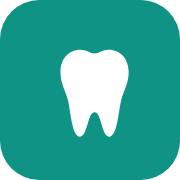
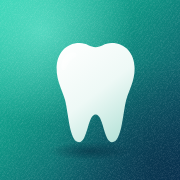
Nouvelle icône texturée en dégradé et écran de lancement
Claude-Session: https://claude.ai/code/session_016JwaKwfunbos5KD4xakaYX

diff --git a/index.html b/index.html
@@ -193,6 +193,14 @@ html{touch-action:manipulation;-webkit-text-size-adjust:100%}
 @keyframes sortie{to{opacity:0;transform:translateX(-24px)}}
 .opt{transition:border-color .15s, background .15s, transform .12s}
 .opt:active{transform:scale(.985)}
+#splash{position:fixed;inset:0;z-index:100;display:flex;flex-direction:column;align-items:center;justify-content:center;gap:18px;
+  background:radial-gradient(120% 80% at 20% 10%,#2BD0B0 0%,#0E9384 45%,#0A3556 100%);transition:opacity .45s ease, visibility .45s}
+#splash::after{content:"";position:absolute;inset:0;background:repeating-linear-gradient(125deg,rgba(255,255,255,.05) 0 1px,transparent 1px 9px);pointer-events:none}
+#splash img{width:112px;height:112px;border-radius:26px;box-shadow:0 18px 40px rgba(4,36,58,.45);animation:splashLogo .7s cubic-bezier(.2,1.3,.4,1) both}
+#splash span{font-family:var(--display);font-weight:800;font-size:2rem;letter-spacing:.02em;color:#fff;animation:splashTxt .6s .25s ease-out both}
+#splash.fini{opacity:0;visibility:hidden}
+@keyframes splashLogo{from{opacity:0;transform:scale(.6) rotate(-8deg)}to{opacity:1;transform:none}}
+@keyframes splashTxt{from{opacity:0;transform:translateY(8px)}to{opacity:1;transform:none}}
 /* panier */
 .panier{position:fixed;left:0;right:0;bottom:calc(72px + env(safe-area-inset-bottom));padding:0 12px 10px}
 .panier .in{max-width:536px;margin:0 auto;background:var(--encre);color:#fff;border-radius:var(--r-l);padding:14px 16px;box-shadow:0 10px 30px rgba(15,42,51,.25)}
@@ -257,6 +265,7 @@ html{touch-action:manipulation;-webkit-text-size-adjust:100%}
 </style>
 </head>
 <body>
+<div id="splash" aria-hidden="true"><img src="icons/icon-512.png" alt=""><span>Drill</span></div>
 <div class="app" id="app"></div>
 
 <nav class="onglets" aria-label="Navigation principale"><div class="in">
@@ -1115,6 +1124,12 @@ async function envoyer(t){
 }
 
 aller('accueil');
+// Écran de lancement : visible un court instant à l'ouverture de l'app
+(function(){
+  const sp=document.getElementById('splash'); if(!sp) return;
+  const reduit=matchMedia('(prefers-reduced-motion: reduce)').matches;
+  setTimeout(()=>{ sp.classList.add('fini'); setTimeout(()=>sp.remove(), 500); }, reduit?300:1100);
+})();
 </script>
 </body>
 </html>
